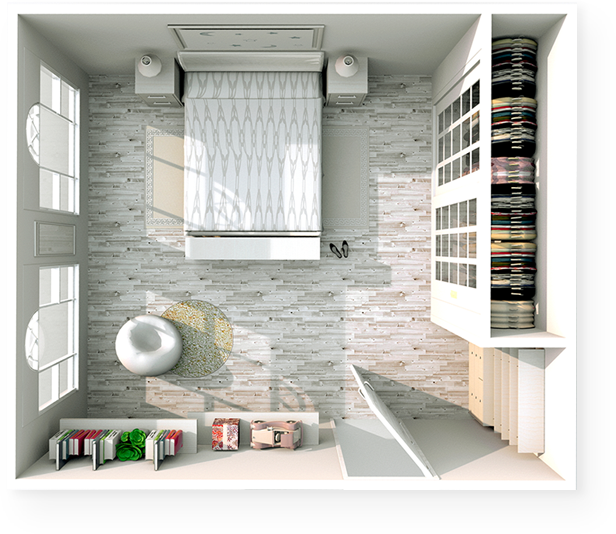
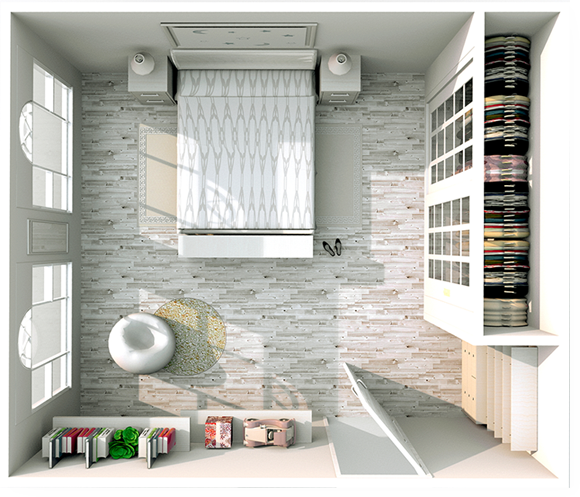
Замена картинки hero-image

diff --git a/src/css/style.css b/src/css/style.css
@@ -114,7 +114,6 @@ img {
     border-radius: 5px;
   }
   .navbar__logo img {
-    margin-left: 10px;
     width: 85px;
   }
 }
@@ -131,7 +130,7 @@ img {
 }
 
 .hero-text {
-  padding-right: 140px;
+  padding-right: 20px;
   -ms-flex-preferred-size: 50%;
       flex-basis: 50%;
 }
@@ -190,6 +189,15 @@ img {
   line-height: 23px;
 }
 
+.hero-image {
+  margin-top: -3px;
+}
+
+.hero-image__shadow {
+  -webkit-box-shadow: 7px 5px 10px rgba(0, 0, 0, 0.05), 16px 22px 35px rgba(0, 0, 0, 0.05);
+          box-shadow: 7px 5px 10px rgba(0, 0, 0, 0.05), 16px 22px 35px rgba(0, 0, 0, 0.05);
+}
+
 @media (max-width: 1200px) {
   .hero-block {
     -webkit-box-orient: vertical;
@@ -206,19 +214,23 @@ img {
 }
 
 @media (max-width: 768px) {
+  .hero {
+    padding: 25px 0;
+  }
   .hero-text__title {
-    margin-bottom: 13px;
+    margin-bottom: 4px;
     font-size: 24px;
-    line-height: 1.4;
+    line-height: 1.3;
   }
   .hero-text__subtitle {
     margin-bottom: 28px;
     font-size: 16px;
   }
   .hero-list__item {
-    margin-bottom: 20px;
+    margin-bottom: 15px;
   }
   .hero-list__text {
+    max-width: 220px;
     font-size: 12px;
   }
   .hero-list__image {

diff --git a/src/sass/blocks/_hero.sass b/src/sass/blocks/_hero.sass
@@ -4,7 +4,7 @@
   &-block
     display: flex
   &-text
-    padding-right: 140px
+    padding-right: 20px
     flex-basis: 50%
     &__title
       margin-bottom: 35px
@@ -38,6 +38,10 @@
       font-famaly: "MuseoSans300", sans-serif
       font-size: 14px
       line-height: 23px
+  &-image
+    margin-top: -3px
+    &__shadow
+      box-shadow: 7px 5px 10px rgba(0, 0, 0, 0.05), 16px 22px 35px rgba(0, 0, 0, 0.05)
 @media (max-width: 1200px)
   .hero
     &-block
@@ -48,18 +52,21 @@
       padding-right: 10px
 @media (max-width: 768px)
   .hero
+    padding: 25px 0
     &-text
       &__title
-        margin-bottom: 13px
+        margin-bottom: 4px
         font-size: 24px
-        line-height: 1.4
+        line-height: 1.3
       &__subtitle
         margin-bottom: 28px
         font-size: 16px
     &-list
       &__item
-        margin-bottom: 20px
+        margin-bottom: 15px
       &__text
+        max-width: 220px
         font-size: 12px
       &__image
         margin-right: 15px
+        

diff --git a/src/index.html b/src/index.html
@@ -58,7 +58,7 @@
                 <div class="hero-list__image">
                   <img src="img/hero/calculator.png" alt="Калькулятор">
                 </div>
-                <span class="hero-list__text">Рассчитаем смету на работы и материалы в день обращения</span>
+                <span class="hero-list__text">Рассчитаем смету на работы<br> и материалы в день обращения</span>
                 </li>
               <li class="hero-list__item">
                 <div class="hero-list__image">
@@ -70,7 +70,7 @@
           </div>
           <!-- /.hero-text -->
           <div class="hero-image">
-            <img src="img/hero/hero-image.png" alt="План квартиры">
+            <img class="hero-image__shadow" src="img/hero/hero-image.jpg" alt="План квартиры">
           </div>
           <!-- /.hero-image -->
         </div>

diff --git a/src/sass/blocks/_navbar.sass b/src/sass/blocks/_navbar.sass
@@ -38,5 +38,4 @@
       padding: 14px 26px 13px
       border-radius: 5px
     &__logo img
-      margin-left: 10px
       width: 85px
